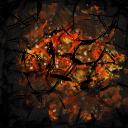
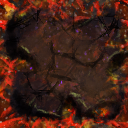
Breaktile update

diff --git a/js/physics.js b/js/physics.js
@@ -107,8 +107,9 @@ function runPhysics(){
 			if (tile.breaking != null){
 				if (tile.breaking > 0){
 					tile.breaking -= 1;
-					if (tile.breaking < tileBreakMinor) tile.brokenStage = 1;
-					if (tile.breaking < tileBreakMajor) tile.brokenStage = 2;
+					if (tile.breaking <= tileBreakSevere) tile.brokenStage = 3;
+					else if (tile.breaking <= tileBreakMajor) tile.brokenStage = 2;
+					else if (tile.breaking <= tileBreakMinor) tile.brokenStage = 1;
 				} 
 				if (tile.breaking === 0){
 					// Transform to lava tile

diff --git a/js/main.js b/js/main.js
@@ -264,7 +264,7 @@ function runGame(){
 					$('#tile_'+i).css({
 					'background-image': 'url(\'img/tiles/breaktile'+tile.brokenStage+'.png\')',
 					'background-position':'0px 0px'
-				});
+					});
 				}
 			} else {
 				var tileFrameInfo = getTileAnimationFrame(tileAnimationFrame, tile.type);

diff --git a/js/global.js b/js/global.js
@@ -62,7 +62,8 @@ var opacityTransitionPerFrame = 0.10;
 var introVideoPlayer = null;
 var titleVideoPlayer = null;
 var tileBreakMinor = 45;
-var tileBreakMajor = 15;
+var tileBreakMajor = 30;
+var tileBreakSevere = 15;
 
 var PlayerState = {
 	Idle: 1,
